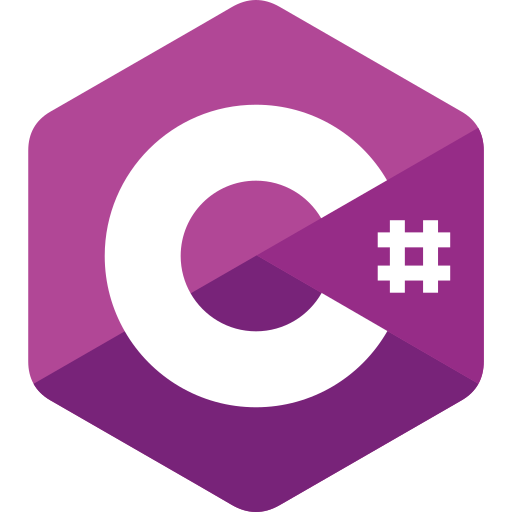
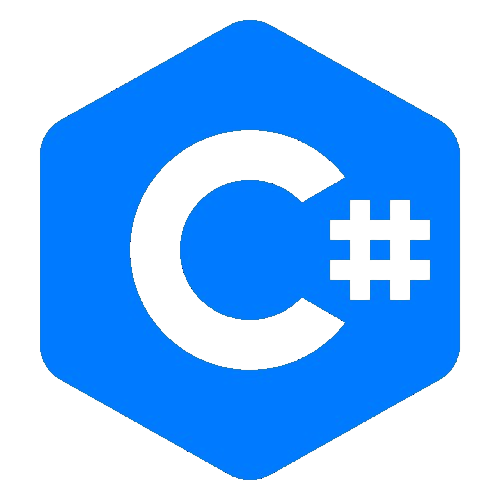
Finalizado

diff --git a/assets/css/style.css b/assets/css/style.css
@@ -1,20 +1,32 @@
 @import url('https://fonts.googleapis.com/css2?family=Jost:ital,wght@0,100..900;1,100..900&display=swap');
 
+:root{
+    --cor1: #7102DC;
+    --cor2: #04001c;
+    --cor3: #e9e9e9;
+    --cor4: #2870ff;
+    --cor5: #0f1d3c;
+    --cor6: #0a0a0a;
+    --cor7: #181818;
+}
+
 *{margin: 0;}
 html{scroll-behavior: smooth;}
 body{font-family: 'Jost';}
 a{text-decoration: none; color: #fff;}
 main{background-color: var(--cor7); padding-bottom: 100px;}
 img{width: 100%; object-fit: cover;}
+header{display: block; width: 100%;}
 
 /* NAV */
-.container{margin: auto; max-width: 1280px;}
-nav{background-color: #04001c; max-width: 100%;}
-nav h1{color: #fff;}
-.nav-container{display: flex; justify-content: space-between; align-items: center;}
+.container{margin: auto; max-width: 1280px; padding: 10px;}
+.nav-section{background-color: #181818; max-width: 100%;}
+.nav-container h1{color: #fff;}
+.nav-container{display: flex; justify-content: space-between; align-items: center; padding: 20px;}
 .nav-title{ font-weight: lighter; font-size: 40px; padding: 10px 30px; }
 .nav-itens{ margin-inline: 30px; font-size: 25px; transition: .5s;}
 .nav-itens:hover{ color: var(--cor4);}
+.button-hamburguer{display: none;}
 
 /* Header */
 .ring { position: relative; width: 500px; height: 500px; display: flex; justify-content: center; align-items: center;}
@@ -29,15 +41,15 @@ nav h1{color: #fff;}
    100% {
      transform: rotate(360deg);
    }
- }
- @keyframes animate2 {
+}
+@keyframes animate2 {
    0% {
      transform: rotate(360deg);
    }
    100% {
      transform: rotate(0deg);
    }
- }
+}
 .Banner{max-width: 100%; display: flex; justify-content: center; padding: 100px 0;}
 .banner-div{display: flex; flex-direction: column; align-items: center; z-index: 3;}
 .banner-div p{color: var(--cor3); font-size: 2em; text-align: center;}
@@ -49,18 +61,19 @@ nav h1{color: #fff;}
 /* Sobre */
 .sobre{max-width: 100%; padding: 100px 0;}
 .sobre h1{color: #fff; font-size: 2.8em; padding: 80px 30px; text-align: center; font-weight: 200;}
-.sobre-div{width: 800px; display: flex; justify-content: center; border-bottom: var(--cor4) solid 2px; margin: auto; padding: 20px;}
+.sobre-div{max-width: 800px; display: flex; justify-content: center; border-bottom: var(--cor4) solid 2px; margin: auto; padding: 20px;}
 .sobre-div p{color: #adadad; font-size: 1.4em; text-align: justify; width: 750px;}
 
 /* Habilidades */
 .habil{max-width: 100%; padding: 30px 0 250px 0;}
 .habil h1{color: #fff; font-size: 2.8em; padding: 80px 30px; text-align: center; font-weight: 200;}
-.linguas{display: flex;max-width: 100%; flex-direction: row; justify-content: space-evenly; gap: 10px;}
-.linguas li {border-bottom: 1px solid #fff;border-top: 1px solid transparent; border-radius: 0px; padding: 30px 30px; transition: .5s;}
+.linguas{display: flex;max-width: 100%; flex-direction: row; justify-content: space-evenly; gap: 10px; flex-wrap: wrap;
+  padding: 20px;}
+.linguas li {border-bottom: 1px solid #fff;border-top: 1px solid transparent; border-radius: 0px; padding: 40px 40px; transition: .5s; width: 80px; text-align: center; display: flex; justify-content: center;}
 .linguas li:hover{border-bottom:1px solid transparent ; border-top: 1px solid var(--cor4); color: #fff;}
 .linguas li:hover i{color: #fff;}
 .linguas li img{transition: .5s;}
-.linguas li:hover img{filter: brightness(2);}
+.linguas li:hover img{filter: grayscale(100%) brightness(6);}
 .linguas i{font-size: 90px; transition: .5s; color: var(--cor4);}
 
 /* Trabalhos */
@@ -68,7 +81,7 @@ nav h1{color: #fff;}
 .trabalhos h1{color: #fff; font-size: 2.8em; padding: 0px 30px 0 30px; text-align: center; font-weight: 200;}
 ul{list-style-type: none;}
 .projetos{display: flex;max-width: 100%; flex-direction: row; justify-content: space-around; margin-top: 50px;flex-wrap: wrap; gap: 50px; padding: 100px 0;}
-.proj-container{background-color: transparent; border-radius: 20px; width: 500px; padding: 20px; border: 2px solid  var(--cor4); display: block; transition: .3s;}
+.proj-container{background-color: transparent; border-radius: 20px; max-width: 500px; padding: 20px; border: 2px solid  var(--cor4); display: block; transition: .3s;}
 .proj-container:hover{transform: scale(1.05); background-color: #ffffff08;}
 .proj-container p{font-size: 2rem; color: white; margin-block:25px;}
 .proj-img{object-fit: contain; width: 100%; border-radius: 10px;}
@@ -77,7 +90,8 @@ ul{list-style-type: none;}
 /* Contato*/
 .contato{max-width: 100%; padding: 100px 0;}
 .contato h1{color: #fff; font-size: 2.8em; padding: 80px 30px; text-align: center; font-weight: 200;}
-.contato-container{display: flex; justify-content: space-evenly; flex-direction: row;}
+.contato-container{display: flex; justify-content: space-evenly; flex-direction: row; flex-wrap: wrap;
+  gap: 40px 20px;}
 .contato-item{display: flex; flex-direction: column; align-items: center; border: var(--cor1) solid 3px; border-radius: 20px; min-width: 250px; min-height: 250px; justify-content: space-evenly; box-shadow: 0px 9px 30px rgba(255, 248, 239, 0.1);}
 .contato-item a{font-size: 17px;}
 .contato-item a:hover{text-decoration: underline;}
@@ -91,32 +105,26 @@ footer{background-color: var(--cor2); color: #fff; text-align: center; padding: 
 .fa-instagram:hover,.fa-whatsapp:hover,.fa-github:hover,.outro2:hover{color: var(--cor4); cursor: pointer; transform: translateY(-2px);}
 
 
-/* @media (max-width: 1150px) {
-    .sobre-div{ display: flex;}
-    .sobre-div p{font-size: 1.3em;}
+@media (max-width: 975px) {
+  .button-hamburguer{display: block;}
+  .nav-menu{display: none;}
+  .Banner{padding: 200px 0 100px 0;}
+  .ativar-menu{display: flex; flex-direction: column; position: fixed; top: 100px; left: 0px; background: #181818; width: 100%; z-index: 4; height: 100vh; text-align: center; line-height: 10rem;}
+  header{position: fixed; z-index: 4; display: block;}
+  button{border: none; background: none;}
+  .fa-bars{color: #fff; font-size: 35px;}
+  .fa-bars:hover{cursor: pointer;}
 }
 
-@media (max-width: 1000px) {
-    .sobre h1{color: #fff; font-size: 2.8em; padding: 80px 30px;}
-    .sobre-div{display: flex;}
-    .sobre-div p{font-size: 1.1em; min-height: fit-content; max-width: 700px; margin: auto;}
-    .sobre-div img{display: none;}
-    
-}
-*/
 
-@media (max-width: 800px) {
-   .projetos,.linguas{flex-direction: column;}
-   .proj-container{margin: 20px; display: flex; flex-direction: column;}
+@media (max-width: 600px) {
+   .Banner{scale: 0.7;}
+   .nav-title{font-size: 30px;}
+} 
+
+@media (max-width: 400px) {
+   .Banner{scale: 0.6;}
 } 
 
 
-:root{
-    --cor1: #7102DC;
-    --cor2: #04001c;
-    --cor3: #e9e9e9;
-    --cor4: #2870ff;
-    --cor5: #0f1d3c;
-    --cor6: #0a0a0a;
-    --cor7: #181818;
-}
+

diff --git a/assets/js/script.js b/assets/js/script.js
@@ -1,0 +1,15 @@
+function abrirMenu () {
+    var nav = document.querySelector(".nav-menu");
+    var icon = document.querySelector(".fa-bars");
+    var icon2 = document.querySelector(".fa-xmark");
+
+    nav.classList.toggle("ativar-menu");
+    
+}
+
+function fecharMenu () {
+    var nav = document.querySelector(".nav-menu");
+
+    nav.classList.remove("ativar-menu");
+}
+

diff --git a/index.php b/index.php
@@ -1,31 +1,34 @@
 <!DOCTYPE html>
-<html lang="en">
+<html lang="pt-br">
 
 <head>
     <meta charset="UTF-8">
     <meta name="viewport" content="width=device-width, initial-scale=1.0">
-    <title>Portifolio Rogerio Filho</title>
-    <link rel="stylesheet" href="assets/css/style.css">
-    <link rel="stylesheet" href="assets/css/all.css">
+    <title>Portifólio Rogerio Filho</title>
 
+    <!-- CSS -->
+    <link rel="stylesheet" href="assets/css/style.css">
+
+    <!-- Icones -->
     <script src="https://kit.fontawesome.com/19ce1ec299.js" crossorigin="anonymous"></script>
 </head>
 
 <body>
     <header>
-        <nav>
-            <div class="container">
-                <div class="nav-container">
-                    <h1 class="nav-title"><a href="index.php">PORTIFÓLIO</a></h1>
-                    <div>
-                        <a href="#home" class="nav-itens">Home</a>
-                        <a href="#sobre" class="nav-itens">Sobre</a>
-                        <a href="#trabalhos" class="nav-itens">Trabalhos</a>
-                        <a href="#contato" class="nav-itens">Contato</a>
-                    </div>
-                </div>
-            </div>
-        </nav>
+        <section class="nav-section">
+            <article class="container">
+                <article class="nav-container">
+                    <h1 class="nav-title"><a href="index.php">ROGERIO FILHO</a></h1>
+                    <nav class="nav-menu">
+                        <a href="#home" onclick="fecharMenu();" class="nav-itens">Home</a>
+                        <a href="#sobre" onclick="fecharMenu();" class="nav-itens">Sobre</a>
+                        <a href="#trabalhos" onclick="fecharMenu();" class="nav-itens">Trabalhos</a>
+                        <a href="#contato" onclick="fecharMenu();" class="nav-itens">Contato</a>
+                    </nav>
+                    <button class="button-hamburguer" onclick="abrirMenu();"><i class="fa-solid fa-bars"></i></button>
+                </article>
+            </article>
+        </section>
     </header>
     <main>
         <section class="container">
@@ -82,7 +85,7 @@
                         <i class="fa-brands fa-figma"></i>
                     </li>
                     <li>
-                        <img src="assets/img/c-sharp.png" alt="Língua C#" width="90" height="90">
+                        <img src="assets/img/c-sharp.svg" alt="Língua C#" width="90" height="90">
                     </li>
                 </ul>
             </section>
@@ -94,13 +97,13 @@
 
                 <ul class="projetos">
                     <li>
-                        <a href="" class="proj-container" target="_blank">
+                        <a href="https://www.dehumanos.com.br/cadastro" class="proj-container" target="_blank">
                             <img src="assets/img/projetos/DehumanosCadastro.png" alt="Imagem do site" class="proj-img">
                             <p>Dehumanos - Cadastro</p>
                         </a>
                     </li>
                     <li>
-                        <a class="proj-container" href="" target="_blank">
+                        <a class="proj-container" href="https://www.dehumanos.com.br/gft" target="_blank">
                             <img src="assets/img/projetos/Gft.png" alt="Imagem do site" class="proj-img">
                             <p>Dehumanos GFT</p>
                         </a>
@@ -112,7 +115,7 @@
                         </a>
                     </li>
                     <li>
-                        <a class="proj-container" href="" target="_blank">
+                        <a class="proj-container" href="https://www.dehumanos.com.br/sistema" target="_blank">
                             <img src="assets/img/projetos/dehumanosSistema.png" alt="" class="proj-img">
                             <p>Dehumanos - Sistema</p>
                         </a>
@@ -146,15 +149,15 @@
                 <article class="contato-container">
                     <div class="contato-item">
                         <i class="fa-solid fa-phone"></i>
-                        <a href="">67-992997684</a>
+                        <a href="https://wa.me/5567992997684?text=Entrando%20em%20Contato...">67-992997684</a>
                     </div>
                     <div class="contato-item">
                         <i class="fa-regular fa-envelope"></i>
-                        <a href="">rogerio.rhty@outlook.com</a>
+                        <a href="mailto:rogerio.rhty@outlook.com">rogerio.rhty@outlook.com</a>
                     </div>
                     <div class="contato-item">
                         <i class="fa-brands fa-linkedin outro"></i>
-                        <a href="">Rogerio Filho</a>
+                        <a href="https://www.linkedin.com/in/rogerio-filho-1436b9319/" target="_blank">Rogerio Filho</a>
                     </div>
                 </article>
             </section>
@@ -163,14 +166,16 @@
     <footer>
         <div id="contato" class="footer-container">
             <div class="footer-icons">
-                <a href="#"><i class="fa-brands fa-instagram"></i></a>
-                <a href="#"><i class="fa-brands fa-whatsapp"></i></a>
+                <a href="https://www.instagram.com/rogerio__filho0/"><i class="fa-brands fa-instagram"></i></a>
+                <a href="https://wa.me/5567992997684?text=Entrando%20em%20Contato..."><i class="fa-brands fa-whatsapp"></i></a>
                 <a href="https://github.com/rogeriofilhoO" target="_blank"><i class="fa-brands fa-github"></i></a>
-                <a href="#"><i class="fa-brands fa-linkedin outro2"></i></a>
+                <a href="https://www.linkedin.com/in/rogerio-filho-1436b9319/" target="_blank"><i class="fa-brands fa-linkedin outro2"></i></a>
             </div>
             <p>© 2024 Rogerio Filho, All rights reserved.</p>
         </div>
     </footer>
+
+    <script async src="assets/js/script.js"></script>
 </body>
 
 </html>
